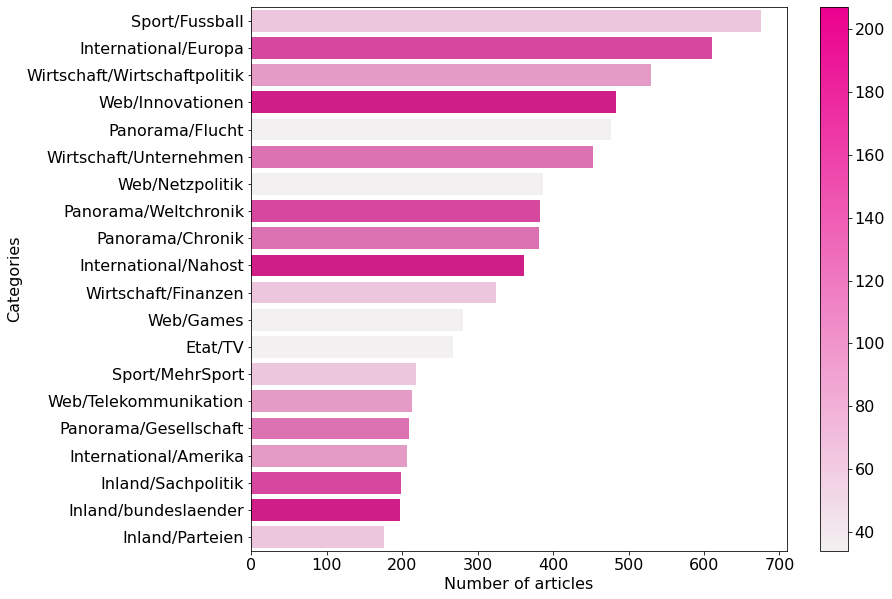
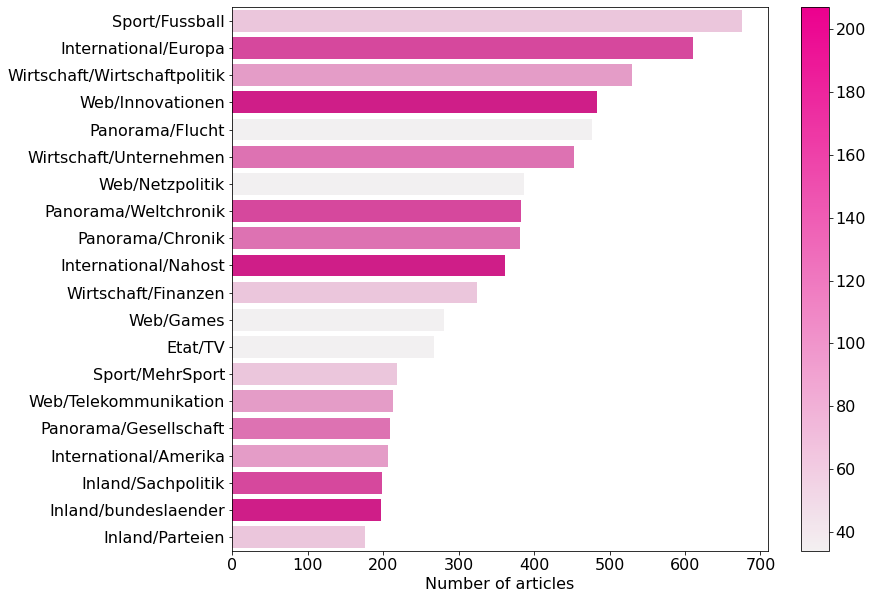
Issue #2 Remove label from article plot

diff --git a/eda_posts_vs_categories.py b/eda_posts_vs_categories.py
@@ -167,7 +167,7 @@ plt.clf()
 plt.colorbar(plot)
 
 ax = sns.barplot(data=d, y=d.index, x=d['article_count'], hue='posts_per_article', palette=palette, dodge=False)
-ax.set_ylabel('Categories')
+ax.set_ylabel('')
 ax.set_xlabel('Number of articles')
 ax.legend_.remove()
 ax.figure.set_size_inches(12,10)
